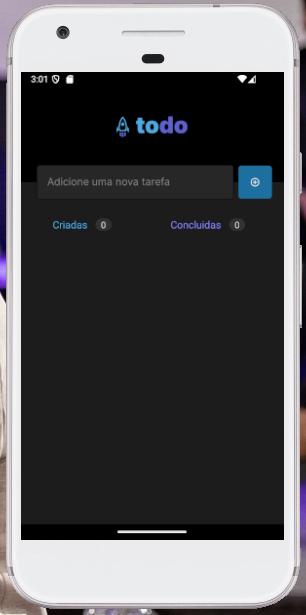
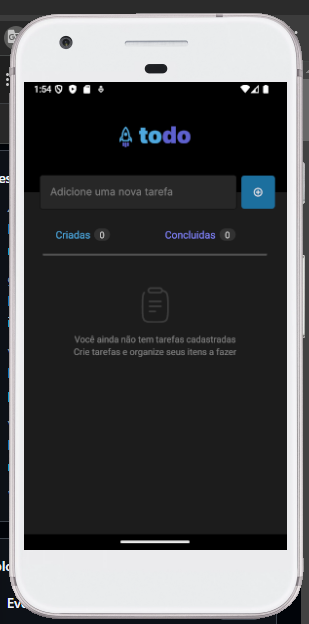
creation of the empty part

Changed region(s): [[0.0, 0.0, 1.0, 1.0], [0.2353, 0.5252, 0.7647, 0.587]]

diff --git a/src/components/task/index.tsx b/src/components/task/index.tsx
@@ -1,0 +1,29 @@
+import { View, TouchableOpacity, Text } from 'react-native'
+import { MaterialCommunityIcons } from '@expo/vector-icons'
+import { styles } from './styles'
+import { theme } from '../../styles/theme'
+import { TaskDTO } from '../../dtos/TaskDTO'
+
+export function Task({title, isCompleted} : TaskDTO){
+    return(
+        <View style={styles.taskContainer}>
+            <TouchableOpacity>
+                <MaterialCommunityIcons 
+                name={isCompleted ? "checkbox-marked-circle" : "checkbox-blank-circle-outline"}
+                size={20}
+                color={isCompleted ? theme.purple[200] : theme.blue[100]}/>
+            </TouchableOpacity>
+            <View style={styles.textContainer}>
+                <Text style={isCompleted ? styles.textDone : styles.textCreated}>
+                    {title}
+                </Text>
+            </View>
+            <TouchableOpacity>
+                <MaterialCommunityIcons 
+                name="trash-can-outline"
+                size={20}
+                color={theme.gray[300]}/>
+            </TouchableOpacity>
+        </View>
+    )
+}

diff --git a/src/components/infor/index.tsx b/src/components/infor/index.tsx
@@ -1,7 +1,16 @@
-import { View, Text } from 'react-native'
+import { useState } from 'react'
+import { View, Text, FlatList } from 'react-native'
 import { styles } from './styles'
+import { Task } from '../task'
+import { TaskDTO } from '../../dtos/TaskDTO'
+import { Empty } from '../empty'
 
 export function Infor(){
+    const [tasks, setTasks] = useState<TaskDTO[]>([
+        
+
+    ]);
+    
     return(
         <View style={styles.container}>
             <View style={styles.infor}>
@@ -27,6 +36,19 @@ export function Infor(){
                     </View>
                 
             </View>
+
+            <FlatList 
+               data={tasks}
+               keyExtractor={(tasks) => tasks.id!}
+               renderItem={({ item }) => ( 
+               <Task 
+               key={item.id}
+               isCompleted={item.isCompleted}
+               title={item.title}
+               />
+             )}
+             ListEmptyComponent={<Empty/>}
+            />
         </View>
     )
 }

diff --git a/src/components/task/styles.ts b/src/components/task/styles.ts
@@ -1,0 +1,36 @@
+import { StyleSheet} from 'react-native'
+import { theme } from '../../styles/theme'
+
+export const styles = StyleSheet.create({
+    taskContainer: {
+        width: '100%',
+        height: 64,
+        backgroundColor: theme.gray[500],
+        flexDirection: 'row',
+        alignItems: 'center',
+        justifyContent: 'space-between',
+        marginVertical: 4,
+        paddingHorizontal: 12,
+        paddingVertical: 20,
+        borderRadius: 8,
+        borderWidth: 1,
+        borderColor: theme.gray[400]
+    },
+    textContainer:{
+        width: '80%',
+        height: 50,
+        alignItems: 'center',
+        justifyContent: 'center',
+        marginHorizontal: 10
+    },
+    textDone:{
+        fontSize: theme.font_size.md,
+        color: theme.gray[300],
+        textDecorationLine: 'line-through',
+    },
+    textCreated:{
+        fontSize: theme.font_size.md,
+        color: theme.gray[100],
+        textDecorationLine: 'none',
+    }
+})

diff --git a/src/components/empty/styles.ts b/src/components/empty/styles.ts
@@ -1,0 +1,34 @@
+import { StyleSheet } from 'react-native'
+import { theme } from '../../styles/theme'
+
+export const styles = StyleSheet.create({
+    emptyContainer: {
+        flex: 1,
+        alignItems: 'center',
+        width: '100%',
+        paddingVertical: 50,
+        paddingHorizontal: 70,
+        borderTopColor: theme.gray[300],
+        borderBottomColor: theme.gray[600],
+        borderLeftColor: theme.gray[600],
+        borderRightColor: theme.gray[600],
+        borderWidth: 1,
+    },
+    image: {
+        marginBottom: 16,
+    },
+    fontBold: {
+        fontFamily: theme.font_family.bold,
+        fontSize: theme.font_size.md,
+        color: theme.gray[300],
+        width: 300,
+        textAlign: 'center',
+    },
+    fontRegular: {
+        fontFamily: theme.font_family.regular,
+        fontSize: theme.font_size.md,
+        color: theme.gray[300],
+        width: 300,
+        textAlign: 'center',
+    }
+})

diff --git a/src/components/empty/index.tsx b/src/components/empty/index.tsx
@@ -1,0 +1,17 @@
+import { Image, Text, View } from 'react-native'
+import  clipborard  from '../../assets/clipboard.png'
+import { styles } from './styles'
+
+export function Empty(){
+    return(
+        <View style={styles.emptyContainer}>
+            <Image source={clipborard} style={styles.image}/>
+            <Text style={styles.fontBold} numberOfLines={1}>
+                Você ainda não tem tarefas cadastradas
+            </Text>
+            <Text style={styles.fontRegular} numberOfLines={1}>
+                Crie tarefas e organize seus itens a fazer
+            </Text>
+        </View>
+    )
+}

diff --git a/src/components/infor/styles.ts b/src/components/infor/styles.ts
@@ -3,12 +3,12 @@ import { theme } from "../../styles/theme";
 
 export const styles = StyleSheet.create({
     container: {
-        flex: 1,
+       
         justifyContent: 'space-between',
         marginTop: 55,
         marginHorizontal: 25,
         marginLeft: 30,
-        marginRight: 10
+        marginRight: 30
         
     },
 
@@ -16,7 +16,7 @@ export const styles = StyleSheet.create({
         flexDirection: 'row',
         alignItems: 'center',
         justifyContent: 'space-between',
-        marginBottom: 50,
+        marginBottom: 20,
     },
 
     row: {

diff --git a/src/dtos/TaskDTO.ts b/src/dtos/TaskDTO.ts
@@ -1,0 +1,5 @@
+export type TaskDTO = {
+    id?: string
+    title: string
+    isCompleted: boolean
+}

diff --git a/Readme.md b/Readme.md
@@ -12,7 +12,7 @@ Esse projeto ainda está em andamento, é um projeto indicado pelo o pessoal do 
 <br>
 
 <p align="center">
-  <img alt="TodoList" src="./src/assets/todolist.png" width="100%">
+  <img alt="TodoList" src="./src/assets/todolist.png" width="70%">
 </p>
 
 ## 🚀 Tecnologias
